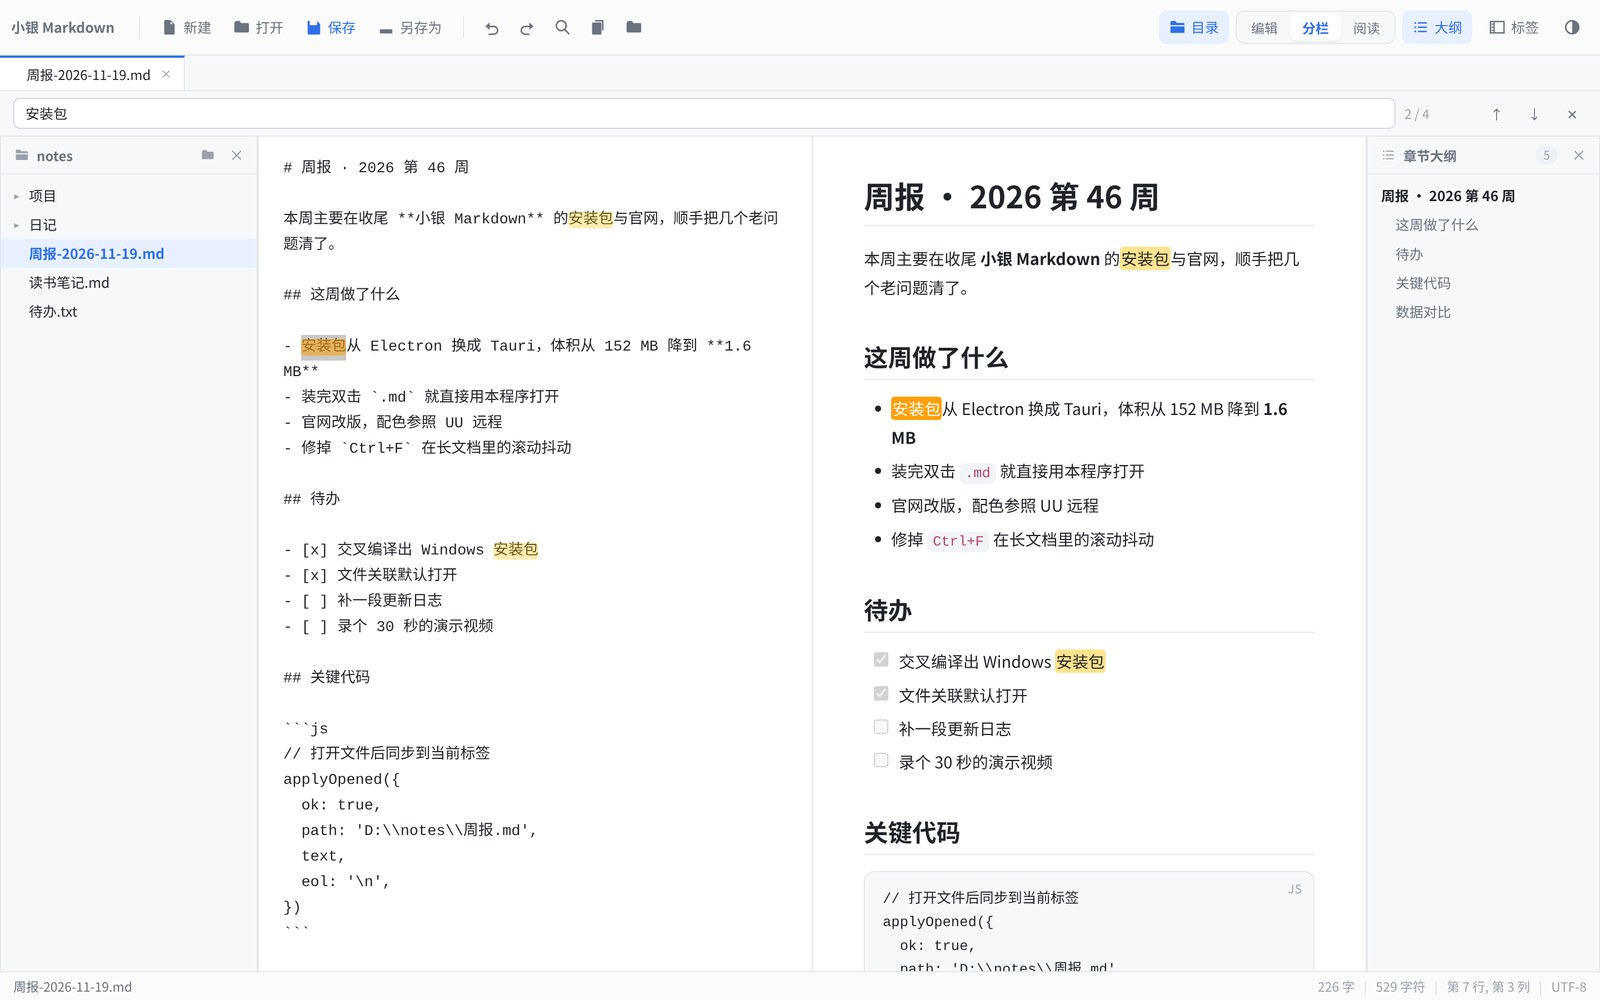
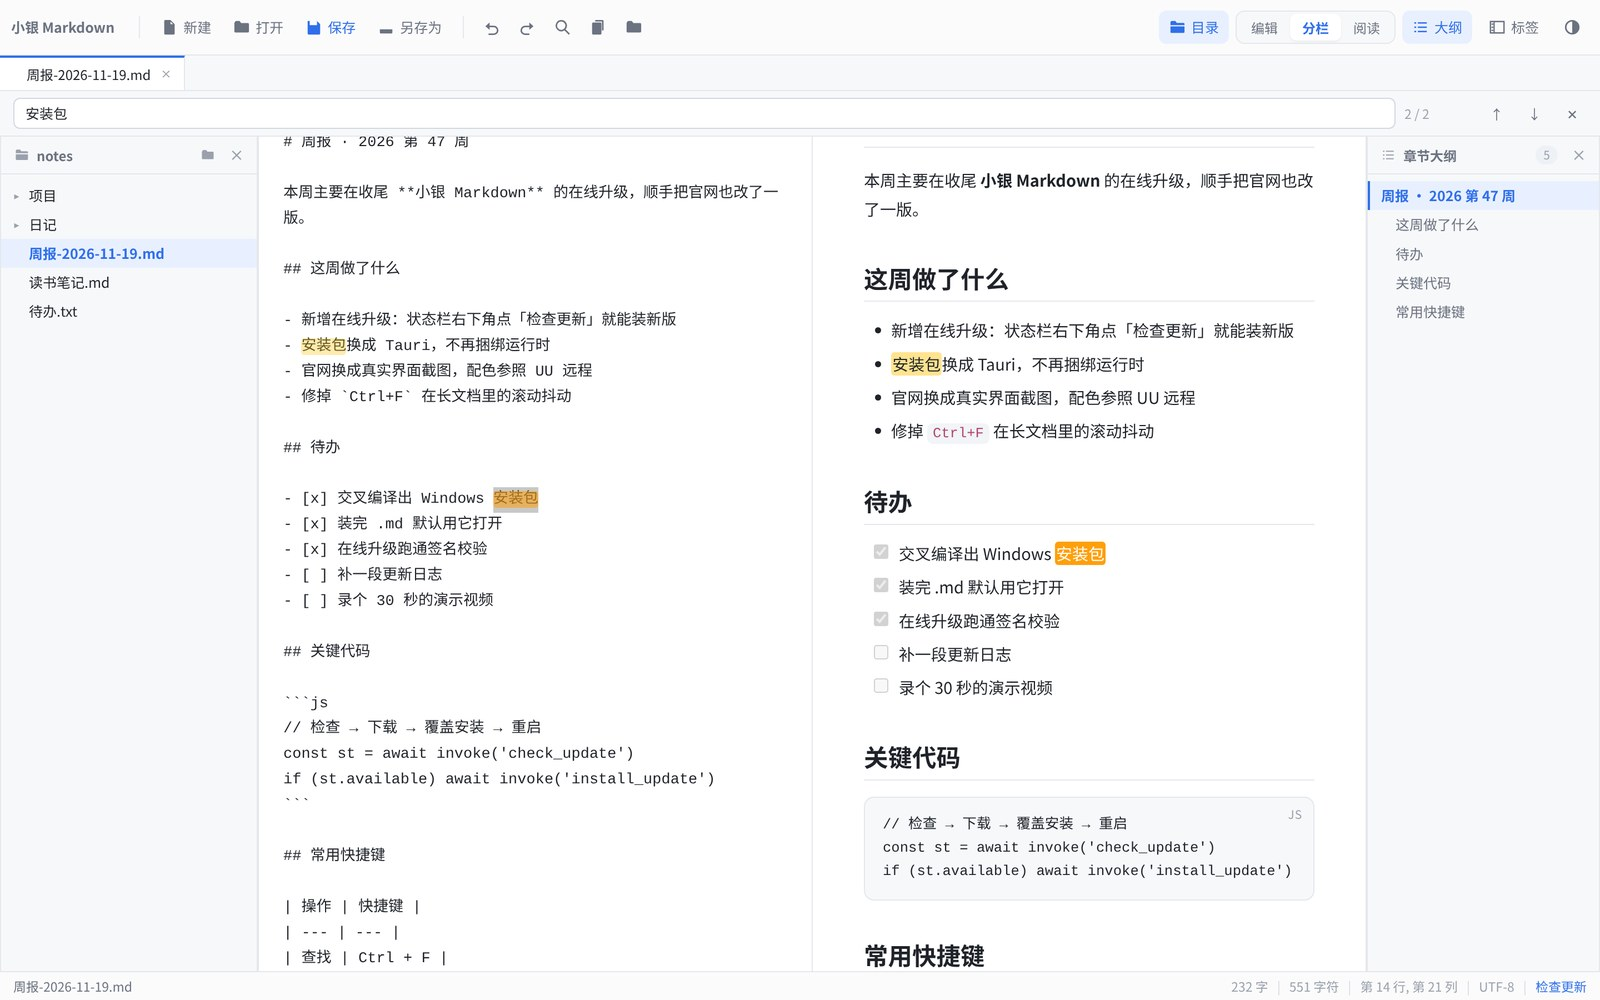
docs(site): 重出官网截图（2.6.3 界面：更新入口在状态栏、无工具条图标）
界面变了，截图跟着重出：
  · 更新入口从工具条图标改成状态栏右下角蓝色「检查更新」—— 新图里能看到
  · 工具条右上角不再有那个下载箭头图标

同时把样例文档里的过时内容换掉（原来写「体积从 152 MB 降到 1.6 MB」，
1.6MB 早就不对了），改成讲这周做的在线升级，数字只说「不再捆绑运行时」这种不会烂的表述。

四张图重压到 1600 宽 JPEG q88，合计 549KB。工具链见 tools/screenshots/README.md。

diff --git a/tools/screenshots/mock-api.js b/tools/screenshots/mock-api.js
@@ -13,44 +13,42 @@
   localStorage.setItem('md-editor-dir', 'D:\\notes');
   localStorage.setItem('md-editor-welcome-closed', '1');
 
-  const DOC = `# 周报 · 2026 第 46 周
+  const DOC = `# 周报 · 2026 第 47 周
 
-本周主要在收尾 **小银 Markdown** 的安装包与官网，顺手把几个老问题清了。
+本周主要在收尾 **小银 Markdown** 的在线升级，顺手把官网也改了一版。
 
 ## 这周做了什么
 
-- 安装包从 Electron 换成 Tauri，体积从 152 MB 降到 **1.6 MB**
-- 装完双击 \`.md\` 就直接用本程序打开
-- 官网改版，配色参照 UU 远程
+- 新增在线升级：状态栏右下角点「检查更新」就能装新版
+- 安装包换成 Tauri，不再捆绑运行时
+- 官网换成真实界面截图，配色参照 UU 远程
 - 修掉 \`Ctrl+F\` 在长文档里的滚动抖动
 
 ## 待办
 
 - [x] 交叉编译出 Windows 安装包
-- [x] 文件关联默认打开
+- [x] 装完 .md 默认用它打开
+- [x] 在线升级跑通签名校验
 - [ ] 补一段更新日志
 - [ ] 录个 30 秒的演示视频
 
 ## 关键代码
 
 \`\`\`js
-// 打开文件后同步到当前标签
-applyOpened({
-  ok: true,
-  path: 'D:\\\\notes\\\\周报.md',
-  text,
-  eol: '\\n',
-})
+// 检查 → 下载 → 覆盖安装 → 重启
+const st = await invoke('check_update')
+if (st.available) await invoke('install_update')
 \`\`\`
 
-## 数据对比
+## 常用快捷键
 
-| 项目 | 之前 | 现在 |
-| --- | --- | --- |
-| 安装包体积 | 152 MB | 1.6 MB |
-| 启动时间 | 1.2 s | 0.3 s |
+| 操作 | 快捷键 |
+| --- | --- |
+| 查找 | Ctrl + F |
+| 保存 | Ctrl + S |
+| 深色 / 浅色 | Ctrl + Shift + L |
 
-> 下周把 README 补一节「用 Tauri 打包」，再把这套截图换到官网上。
+> 下周把 README 补一节「用 Tauri 打包」，再录个演示视频。
 `;
 
   const TREE = [
